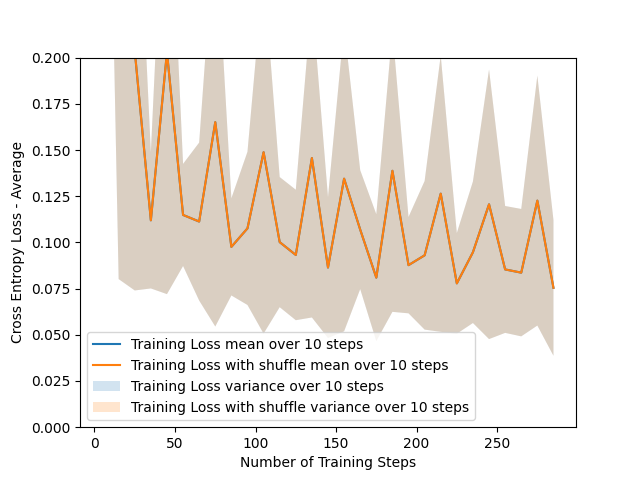
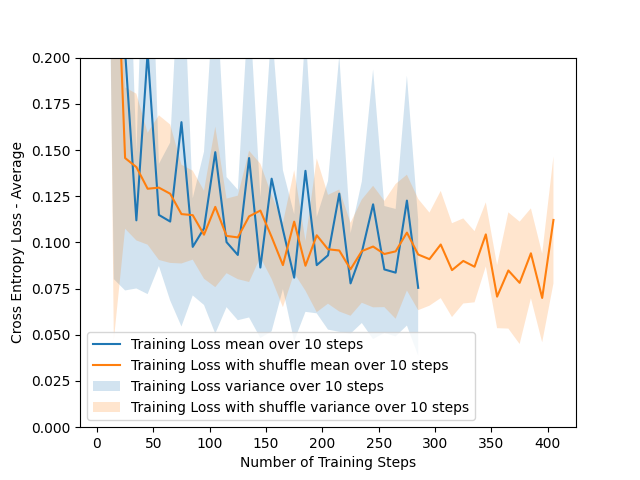
implemented shuffle

diff --git a/assignment1/utils.py b/assignment1/utils.py
@@ -28,6 +28,13 @@ def batch_loader(
 
     # TODO (task 2e) implement dataset shuffling here.
 
+    if shuffle:
+        ind_list = list(range(X.shape[0]))
+        np.random.shuffle(ind_list)
+        X = X[ind_list, :]
+        Y = Y[ind_list,]
+
+
     for i in range(num_batches):
         # select a set of indices for each batch of samples
         batch_indices = indices[i*batch_size:(i+1)*batch_size]
